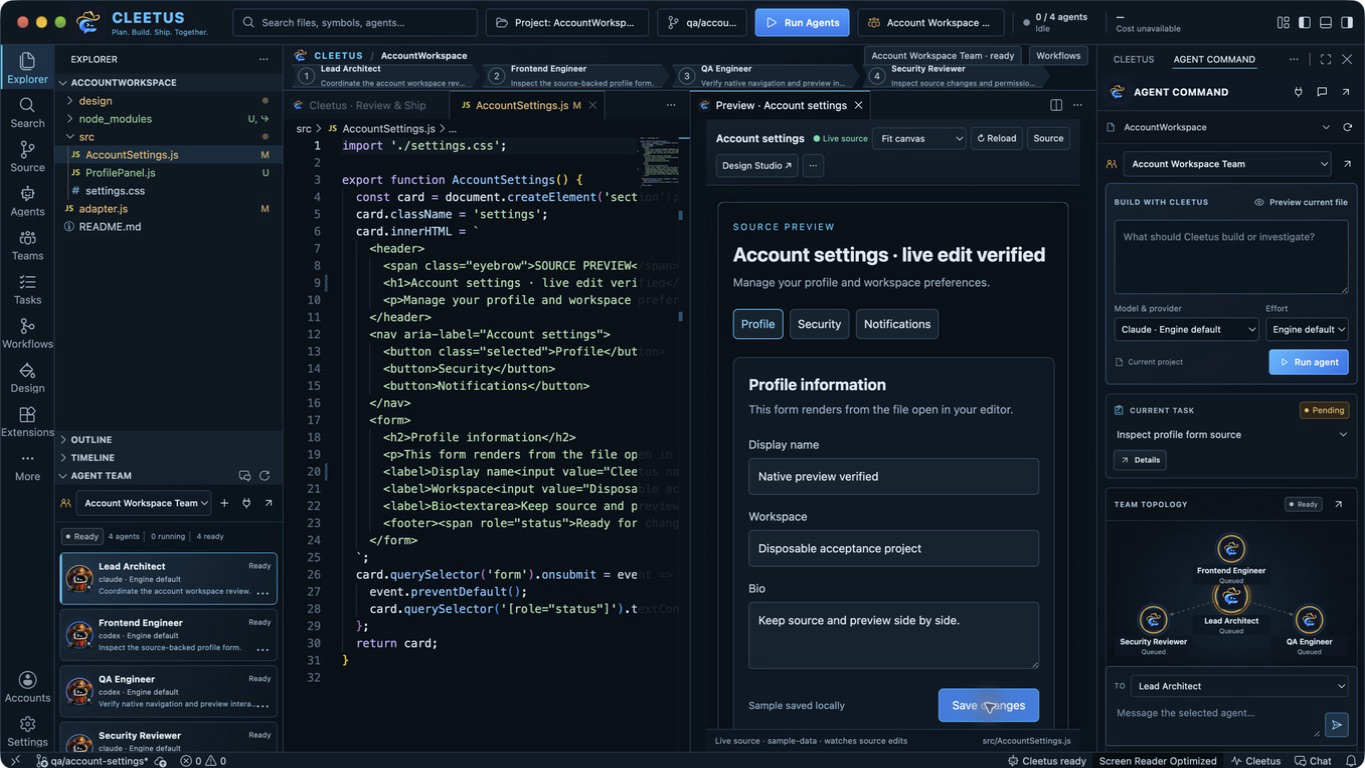
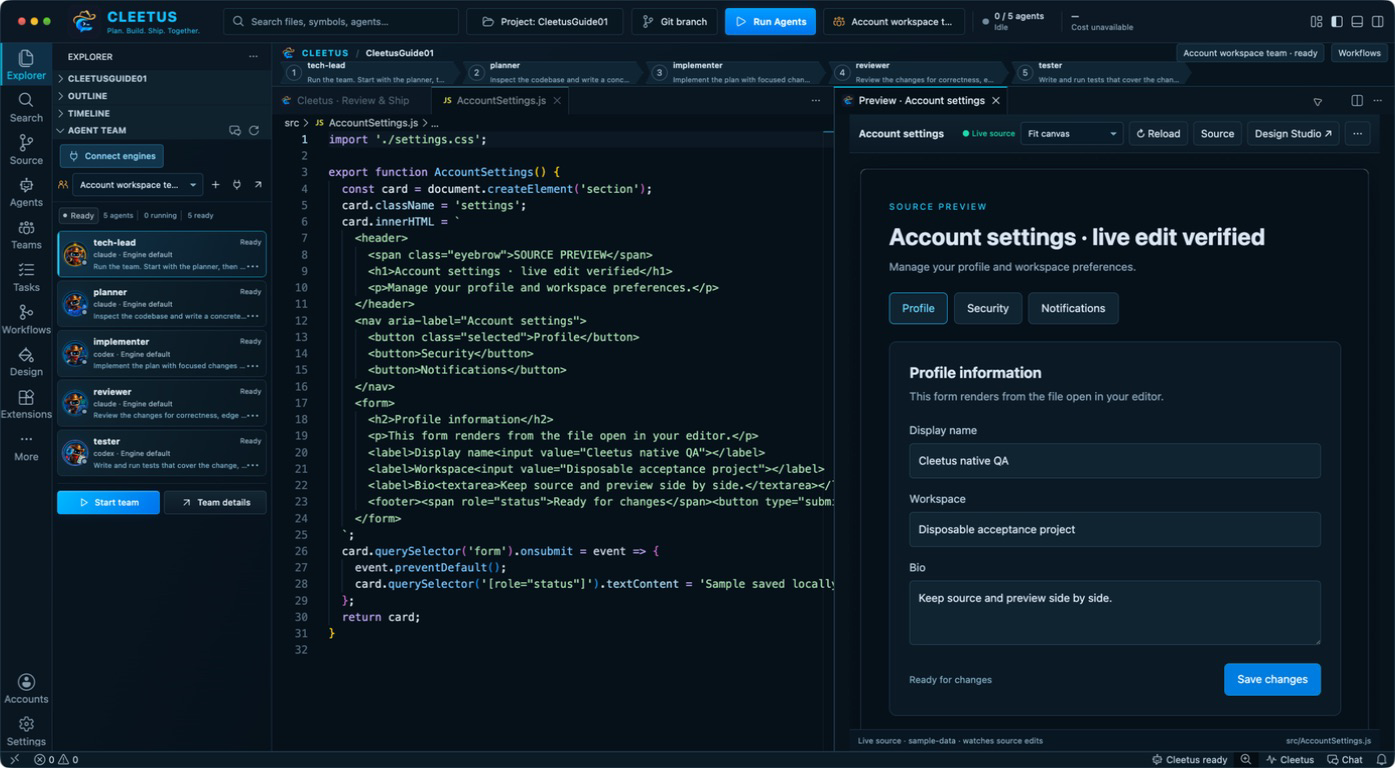
Update Cleetus public documentation

diff --git a/docs/IDE.md b/docs/IDE.md
@@ -7,7 +7,7 @@ Cleetus IDE puts a Code - OSS editor, agents and a source-linked Design studio i
 | **VS Code extension** | [Latest public stable release](https://github.com/SnowBiz/cleetus-releases/releases/latest). [Install and update](INSTALL.md). |
 | **IDE 0.1.0-dev.4** | Local development app built from pinned official Code - OSS source. Unsigned and unnotarized; no signed public native installer is available. |
 
-The images below are actual native captures of a disposable **AccountWorkspace** project. The Teams image uses dev.4 with role-specific portraits; the remaining images use dev.3. Its four team members are ready and unstarted, tasks are pending, Review shows a real local Git edit, and Design renders a real local component. No providers were started for these captures. They demonstrate the interface and local data, not live account execution, completed customer work or pairing between two physical computers.
+The native guide shows actual Cleetus IDE 0.1.0 candidate captures of an isolated CleetusGuide01 sample project: ready, unstarted members, a pending task, a saved workflow with no runs, a real local Git diff and live source previews. Models, activity and cost are not simulated as live execution. No providers were started for these captures; they do not establish live account work, customer extraction or physical two-computer LAN acceptance.
 
 ## Open the source and preview workspace
 
@@ -27,7 +27,7 @@ The IDE keeps its own application identity, settings, extension directories and 
 
 ## Give Agent Command a goal
 
-![Native central Agent Command with actual project plan and ready team](screenshots/ide-native-agent-command.png)
+![Native Agent Command with an unsubmitted brief, queued plan and ready team](screenshots/ide-native-agent-command.png)
 
 The central Agent Command brings the goal composer, plan, selected team, recorded sessions, tasks, activity and reported files together. Its cards reflect saved local state. Requested models are configuration; provider-reported execution metadata remains unknown until reported. Cost and activity are not inferred from a template or a ready team.
 
@@ -42,7 +42,11 @@ The central Agent Command brings the goal composer, plan, selected team, recorde
 
 ## Give a team a bounded goal
 
-![Native orbital Teams view with four ready members](screenshots/ide-native-teams.png)
+![Native orbital Teams view with five ready, unstarted members](screenshots/ide-native-teams.png)
+
+![Themed prebuilt team catalog](screenshots/ide-native-team-template-menu.png)
+
+[Review the creation dialog](screenshots/ide-native-team-create.png) · [See a ready Design squad](screenshots/ide-native-design-squad.png). Creating a team leaves its agents stopped; **Start team** is a separate action.
 
 Open **Teams → + New team** and choose a [prebuilt team](TEAMS.md#which-team-should-i-choose). Review every role, task, system prompt, engine, model, effort and MCP assignment. A blank member effort inherits the team setting; supervised teams require a Claude supervisor. Ready-member settings can be edited before launch, subject to rejecting stale edits from another window.
 
@@ -82,7 +86,7 @@ Named events are explicit host events, not implicit file watchers. **Emit an eve
 
 ## Review the actual changes
 
-![Native Review with a real local Git change and split diff](screenshots/ide-native-review.png)
+![Native Review with an actual local owned-checkout change and unified diff](screenshots/ide-native-review.png)
 
 **Review & Ship → Owned worktrees → + New worktree** creates a checkout and branch from committed HEAD after approval. Associate it with an existing task. Uncommitted primary-checkout changes stay there. Worktrees isolate checkout files, not operating-system permissions; normal engine approvals still apply.
 
@@ -96,7 +100,7 @@ Cleanup needs explicit approval and removes only a verified clean Cleetus-owned 
 
 ## Refine a source-linked component in Design
 
-![Native Design component library, live canvas, source and properties](screenshots/ide-native-design.png)
+![Native Design page review with live desktop and phone source previews](screenshots/ide-native-design.png)
 
 Open **Design** for the component library, interactive source canvas, linked code/fixture panels and component properties. Select a registered component, inspect its implementation and fixtures, and change its exposed controls to exercise the real preview. The inspector uses registered component metadata and supported props; discovery alone does not establish a successful render.
 

diff --git a/README.md b/README.md
@@ -51,4 +51,4 @@ Apache-licensed Cleetus extension portions retain their accompanying license and
 
 [License details](docs/LICENSES.md) · [Apache-2.0](docs/licenses/Apache-2.0.txt) · [Future IDE preview terms](docs/licenses/IDE-PREVIEW-LICENSE.txt)
 
-The browser developer host is a separate development pathway from the native IDE. Extension screenshots use illustrative data. The IDE guide includes actual native dev.3 captures, with Teams refreshed from dev.4, of a disposable AccountWorkspace project with four ready, unstarted members and pending tasks, a real local Git diff and a source-rendered component. No provider was started for these captures, and they do not establish live account work or two-computer LAN pairing. Cleetus is independent of Anthropic and OpenAI and uses your own provider accounts.
+The browser developer host is a separate development pathway from the native IDE. Extension screenshots use illustrative data. The native guide shows actual Cleetus IDE 0.1.0 candidate captures of an isolated CleetusGuide01 sample project: ready, unstarted members, a pending task, a saved workflow with no runs, a real local Git diff and live source previews. Models, activity and cost are not simulated as live execution. No providers were started for these captures; they do not establish live account work, customer extraction or physical two-computer LAN acceptance. Cleetus is independent of Anthropic and OpenAI and uses your own provider accounts.

diff --git a/docs/README.md b/docs/README.md
@@ -22,4 +22,4 @@ The public stable product is the **Cleetus VS Code extension** ([latest stable r
 
 [Download releases](https://github.com/SnowBiz/cleetus-releases/releases)
 
-The extension screenshots use illustrative local data. The IDE guide shows actual native dev.3 captures, with Teams refreshed from dev.4, from a disposable AccountWorkspace project with ready, unstarted members and pending tasks. Its Git diff and rendered component come from that local project. No provider was started for the captures; they do not establish live account work, customer extraction or two-computer LAN pairing. The Design cowboy banner is promotional artwork. Native previews require your actual Xcode build and Simulator runtime.
+The extension screenshots use illustrative local data. The native guide shows actual Cleetus IDE 0.1.0 candidate captures of an isolated CleetusGuide01 sample project: ready, unstarted members, a pending task, a saved workflow with no runs, a real local Git diff and live source previews. Models, activity and cost are not simulated as live execution. No providers were started for these captures; they do not establish live account work, customer extraction or physical two-computer LAN acceptance. The Design cowboy banner is promotional artwork. Native previews require your actual Xcode build and Simulator runtime.
